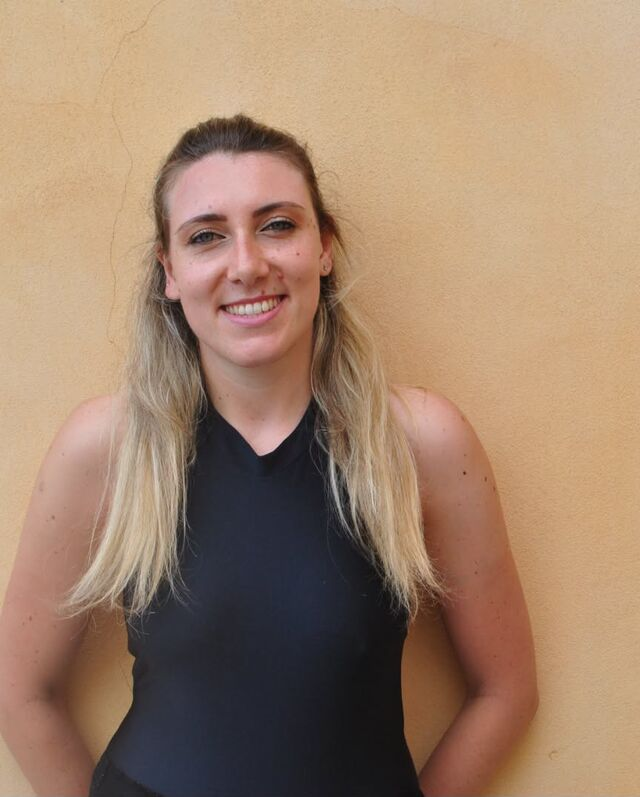
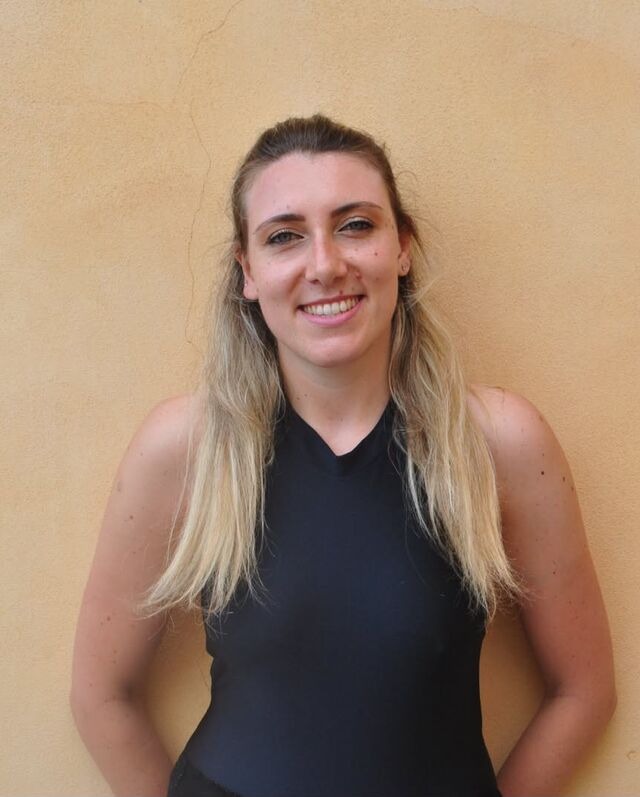
Anteprima: inquadrature di Roberta Pagano e Cecilia Iervolino
Claude-Session: https://claude.ai/code/session_011bkBveJ9rDvajb5T843bsu

diff --git a/anteprima/index.html b/anteprima/index.html
@@ -255,10 +255,10 @@ footer .partner{display:flex;align-items:center;gap:14px;margin-top:22px;flex-wr
 
 <section id="docenti"><div class="wrap">
  <div class="head"><div class="kick">Team</div><h2>Il nostro staff</h2><p>Insegnanti diplomati e professionisti della scena, che seguono ogni allievo per età e livello.</p></div>
- <div class="saggio dir"><div class="img" id="foto-pagano" style="background:#8A3A36 url(doc-pagano.jpg) 40% 42%/cover no-repeat;min-height:520px;font-size:0" role="img" aria-label="Roberta Pagano, direttrice artistica"></div><div class="txt"><div class="kick">Direzione artistica</div><h2>Roberta Pagano</h2><p>Direttrice artistica di DMA COMPANY, diplomata presso la Scuola di Danza Classica Schininà – Vecchi di Napoli.</p><p><b style="color:var(--ink)">Insegna:</b> Pre-danza e propedeutica · Classico · Modern · Heels</p></div></div>
+ <div class="saggio dir"><div class="img" id="foto-pagano" style="background:#8A3A36 url(doc-pagano.jpg) 45% 50%/cover no-repeat;min-height:620px;font-size:0" role="img" aria-label="Roberta Pagano, direttrice artistica"></div><div class="txt"><div class="kick">Direzione artistica</div><h2>Roberta Pagano</h2><p>Direttrice artistica di DMA COMPANY, diplomata presso la Scuola di Danza Classica Schininà – Vecchi di Napoli.</p><p><b style="color:var(--ink)">Insegna:</b> Pre-danza e propedeutica · Classico · Modern · Heels</p></div></div>
  <div class="grid docenti"><article><div class="img">Foto docente</div><div class="txt"><h3>Giovanni Lampitelli</h3><small>Docente di Contemporaneo</small></div></article><article><div class="img">Foto docente</div><div class="txt"><h3>Francesca Sansone</h3><small>Docente di Hip Hop</small></div></article><article><div class="img" style="background:#C9C6D6 url(doc-ferrara.jpg) center 15%/cover no-repeat;font-size:0" role="img" aria-label="Gabriella Ferrara, docente di Pilates"></div><div class="txt"><h3>Gabriella Ferrara</h3><small>Docente di Pilates</small></div></article><article><div class="img" style="background:#050608 url(doc-pesacane.jpg) center 20%/cover no-repeat;font-size:0" role="img" aria-label="Marco Pesacane, docente di Dizione e presentatore"></div><div class="txt"><h3>Marco Pesacane</h3><small>Docente di Dizione · Presentatore</small></div></article></div>
  <h3 class="subhead">Assistenti ai corsi</h3>
- <div class="grid docenti assist"><article><div class="img" style="background:#E8B87A url(doc-iervolino.jpg) center 20%/cover no-repeat;font-size:0" role="img" aria-label="Cecilia Iervolino, assistente ai corsi"></div><div class="txt"><div class="ek">Assistente ai corsi</div><h3>Cecilia Iervolino</h3></div></article><article><div class="img">Foto</div><div class="txt"><div class="ek">Assistente ai corsi</div><h3>Gianni Romano</h3></div></article></div>
+ <div class="grid docenti assist"><article><div class="img" style="background:#E8B87A url(doc-iervolino.jpg) center 25%/cover no-repeat;font-size:0" role="img" aria-label="Cecilia Iervolino, assistente ai corsi"></div><div class="txt"><div class="ek">Assistente ai corsi</div><h3>Cecilia Iervolino</h3></div></article><article><div class="img">Foto</div><div class="txt"><div class="ek">Assistente ai corsi</div><h3>Gianni Romano</h3></div></article></div>
 </div></section>
 
 <section id="gallery" class="alt"><div class="wrap">
